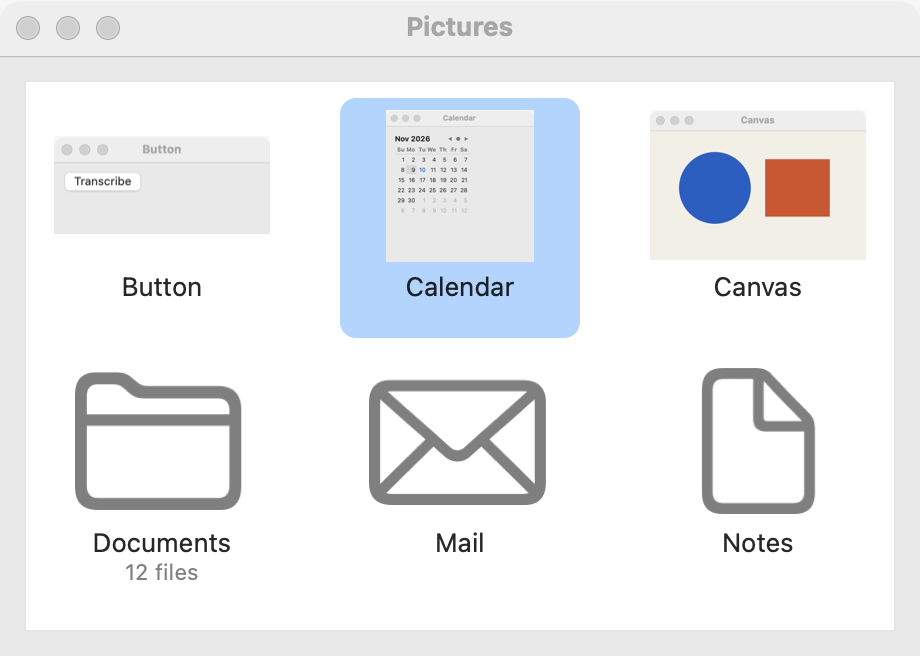
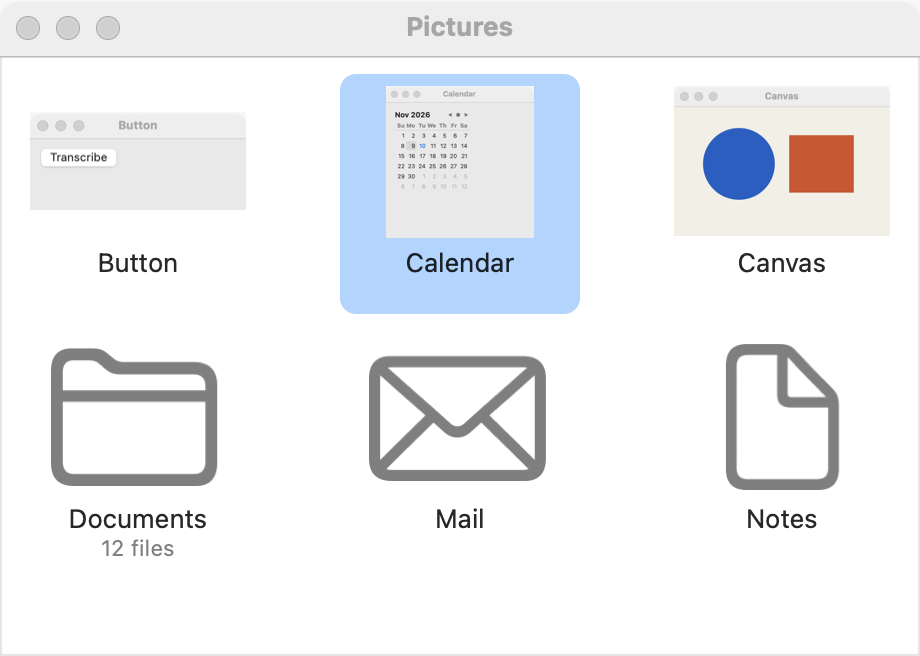
AppKit grid: picture-ready asks the cell too; Mac grid-view and slideshow pictures refreshed
test_item_picture_ready now also checks that an on-screen cell shows the loaded picture,
not only that the model has it (as PROD's GTK fix asks). Mac pictures reshot after
PROD's flat slideshow dots and the gallery's wait for grid pictures. Mac 122/123.

Claude-Session: https://claude.ai/code/session_01LuozTCfTDQFZxgtKZj5Qo8

diff --git a/Clib/simple_gui_appkit.m b/Clib/simple_gui_appkit.m
@@ -8958,7 +8958,17 @@ static void sga_grid_user_select(int a_id, int i, BOOL an_extend)
 	[g tellSelection];
 }
 void sga_test_activate_item(int a_id, int i) { SGAGridView *g = sga_grid_of(a_id); NSInteger v = g && i >= 1 ? sga_grid_view_index(g, i - 1) : -1; if (v >= 0) [g openAt:v]; }
-int sga_test_item_picture_ready(int a_id, int i) { SGAGridView *g = sga_grid_of(a_id); return g && i >= 1 && i <= (int)[g->items count] && g->items[(NSUInteger)i - 1]->image ? 1 : 0; }
+/* Item `i''s picture is loaded and, when its cell is on screen, that cell shows it. */
+int sga_test_item_picture_ready(int a_id, int i)
+{
+	SGAGridView *g = sga_grid_of(a_id);
+	if (!g || i < 1 || i > (int)[g->items count]) return 0;
+	SGAGridItem *it = g->items[(NSUInteger)i - 1];
+	if (!it->image) return 0;
+	NSInteger v = sga_grid_view_index(g, i - 1);
+	SGAGridCell *c = v >= 0 ? (SGAGridCell *)[g itemAtIndexPath:[NSIndexPath indexPathForItem:v inSection:0]] : nil;
+	return !c || [c->picture_view image] == it->image ? 1 : 0;
+}
 
 /* ------------------------------------------------------------------ 1p-b: focus and Escape */
 
